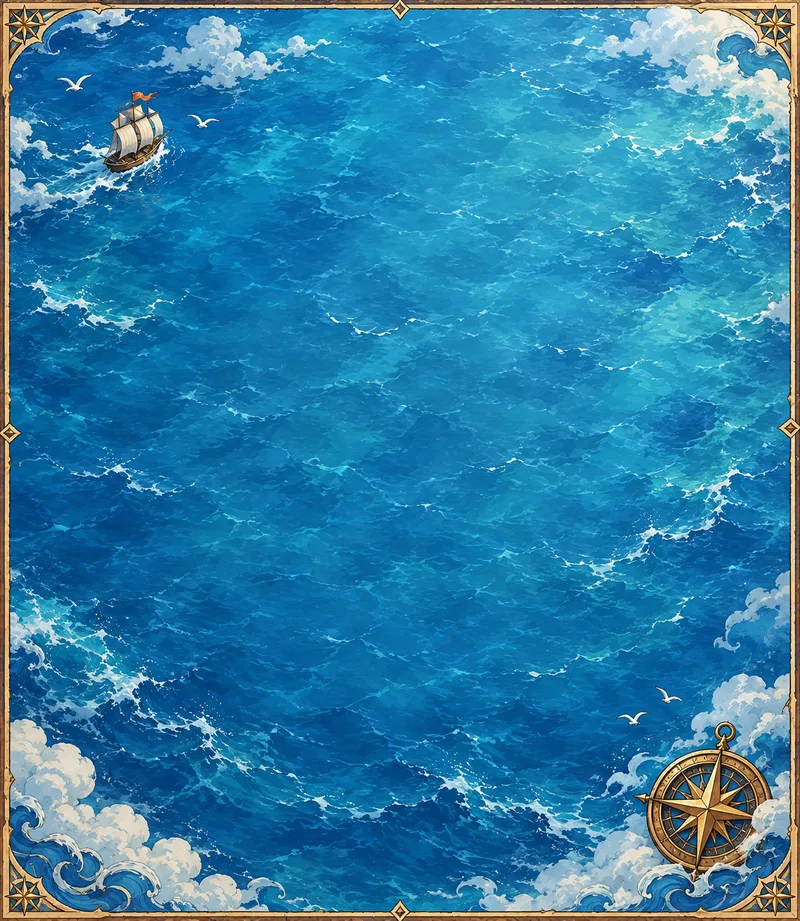
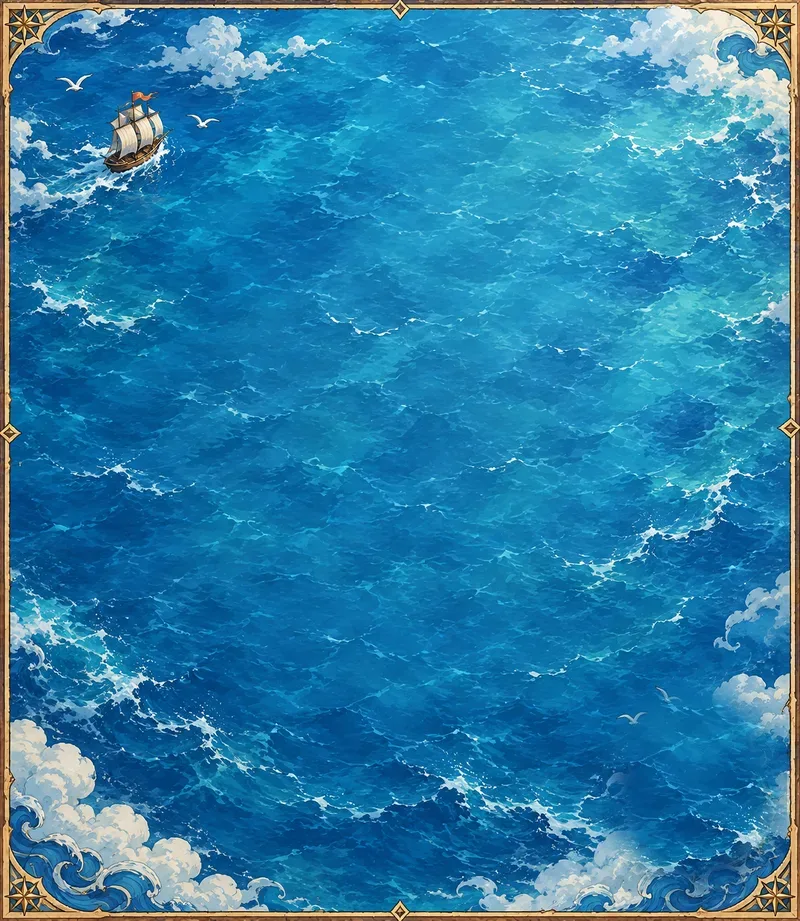
地図右下に野営地の場面（地面・テント・焚き火台・自転車・タープ）を表示。羅針盤を除去
Claude-Session: https://claude.ai/code/session_01N9UH7aPas3bYDXNeJrASUj

Changed region(s): [[0.75, 0.7296, 1.0, 0.9729]]

diff --git a/index.html b/index.html
@@ -56,7 +56,7 @@ button:disabled{opacity:.45;cursor:not-allowed}
 .tabs button[aria-selected="true"]{background:var(--fg);color:var(--bg);border-color:var(--fg)}
 .panel{background:var(--panel);border:1px solid var(--line);border-radius:8px;padding:12px;display:flex;flex-direction:column;gap:12px;min-width:0}
 .map{width:100%;max-width:100%;aspect-ratio:400/472;background:color-mix(in srgb,var(--sky) 10%,var(--panel));border-radius:8px;display:block}
-.map image{filter:var(--bgf)}
+.map .bgimg{filter:var(--bgf)}
 .map path.ov{fill-opacity:.78;pointer-events:none;stroke:none}
 .map path.o0{fill-opacity:var(--o0)}
 .map path{cursor:pointer;stroke:var(--panel);stroke-width:.8;stroke-linejoin:round}
@@ -407,17 +407,22 @@ function render(){const c=calendar(S.turn);$('d-date').textContent=`${c.year}年
 function xy(p){ // Okinawa is pulled up into an inset position
   const lon=p.name==='沖縄'?130.2:p.lon,lat=p.name==='沖縄'?30.6:p.lat;
   return [ (lon-127.5)*22+12, (45.5-lat)*22-20 ];}
-function renderMap(){const svg=$('map');let s=`<defs><pattern id="tex" patternUnits="userSpaceOnUse" width="160" height="160"><image href="img/land_tex.webp" width="160" height="160"/></pattern></defs><image href="img/map_bg.webp" x="0" y="0" width="400" height="${MAP_H}" preserveAspectRatio="xMidYMid slice"/>`,top='';
-  s+=`<path data-id="46" d="M14 386H150V470H14Z" fill="transparent" style="stroke:var(--line);stroke-dasharray:3 3;stroke-width:1"/><text x="20" y="399" style="fill:var(--muted)">沖縄</text>`;
+function renderMap(){const svg=$('map');let s=`<defs><pattern id="tex" patternUnits="userSpaceOnUse" width="160" height="160"><image class="bgimg" href="img/land_tex.webp" width="160" height="160"/></pattern></defs><image class="bgimg" href="img/map_bg.webp" x="0" y="0" width="400" height="${MAP_H}" preserveAspectRatio="xMidYMid slice"/>`,top='';
+  s+=`<path data-id="46" d="M14 386H142V470H14Z" fill="transparent" style="stroke:var(--line);stroke-dasharray:3 3;stroke-width:1"/><text x="20" y="399" style="fill:var(--muted)">沖縄</text>`;
   for(const p of PREF){const n=Math.min(3,S.visits[p.id]||0);
     const cls=(p.id===S.loc?'cur ':'')+(p.id===S.sel?'sel ':'')+'l'+n;
     const d=`<path data-id="${p.id}" class="${cls}" fill="url(#tex)" d="${AREAS[p.id].d}"/><path class="ov o${n}" fill="var(--a${n})" d="${AREAS[p.id].d}"/>`;
     if(p.id===S.loc||p.id===S.sel)top+=d;else s+=d;}
   s+=top;
   for(const id of new Set([S.sel,S.loc])){const c=AREAS[id].c;s+=`<text x="${c[0]-10}" y="${c[1]+4}" style="paint-order:stroke;stroke:var(--panel);stroke-width:3px">${PREF[id].name}</text>`;}
-  const eqs=[['bike',(BIKES.find(b=>b.id===S.bike)||{}).name],['shelter',(GEAR_ITEMS.find(g=>g.id===S.gear.shelter)||{}).name],['fire',(GEAR_ITEMS.find(g=>g.id===S.gear.fire)||{}).name]];
-  eqs.forEach(([ic,nm],i)=>{const x=158+i*54,y=394;
-    s+=`<g style="pointer-events:none"><rect x="${x}" y="${y}" width="50" height="58" rx="6" fill="var(--panel)" fill-opacity=".82" stroke="var(--line)"/><image href="img/icon_${ic}.webp" x="${x+11}" y="${y+4}" width="28" height="28" style="filter:none;opacity:${nm?1:.35}"/><text x="${x+25}" y="${y+46}" text-anchor="middle" style="font-size:8.5px;${nm?'':'fill:var(--muted)'}">${nm?(nm.length>6?nm.slice(0,6)+'…':nm):'なし'}</text></g>`;});
+  const SPR={"tarp_tp2": [565, 199], "shelter_sh2": [355, 185], "bike_gravel": [190, 122], "bike_cross": [185, 120], "bike_road": [176, 121], "fire_fire3": [446, 210], "bike_mama": [162, 136], "fire_fire2": [241, 200], "tarp_tp1": [476, 166], "shelter_sh3": [501, 205], "bike_tigrav": [194, 120], "tarp_tp3": [733, 209], "shelter_sh1": [481, 185], "bike_mtb": [202, 139], "camp_ground": [451, 193], "fire_fire1": [197, 153], "bike_fold": [143, 112]};
+  const put=(key,cx,by,k)=>{const d=SPR[key];if(!d)return '';const w=d[0]*k,hh=d[1]*k;return `<image href="img/${key}.webp" x="${(cx-w/2).toFixed(1)}" y="${(by-hh).toFixed(1)}" width="${w.toFixed(1)}" height="${hh.toFixed(1)}"/>`;};
+  const fk={fire1:.15,fire2:.155,fire3:.125},sk={sh1:.17,sh2:.19,sh3:.18};
+  s+=`<g style="pointer-events:none">${put('camp_ground',272,462,244/451)}`
+   +(S.gear.tarp?put('tarp_'+S.gear.tarp,258,406,.2):'')
+   +(S.gear.shelter?put('shelter_'+S.gear.shelter,258,411,sk[S.gear.shelter]):'')
+   +put('bike_'+S.bike,340,426,.31)
+   +(S.gear.fire?put('fire_'+S.gear.fire,282,430,fk[S.gear.fire]):'')+`</g>`;
   svg.innerHTML=s;}
 $('map').addEventListener('click',e=>{const c=e.target.closest('path');if(c){S.sel=+c.dataset.id;render();}});
 
